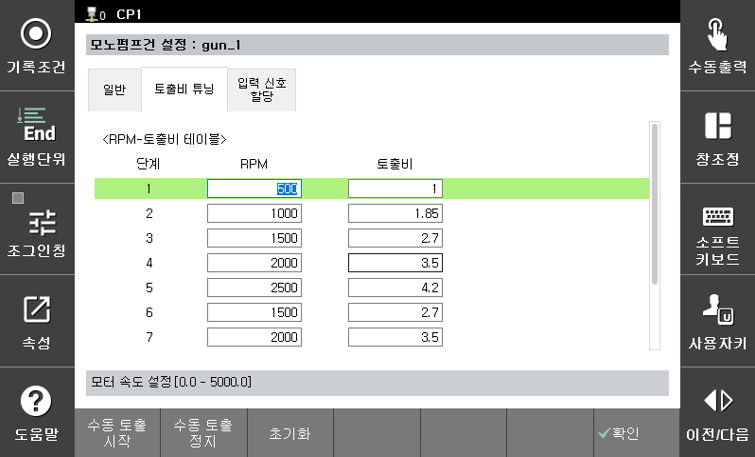
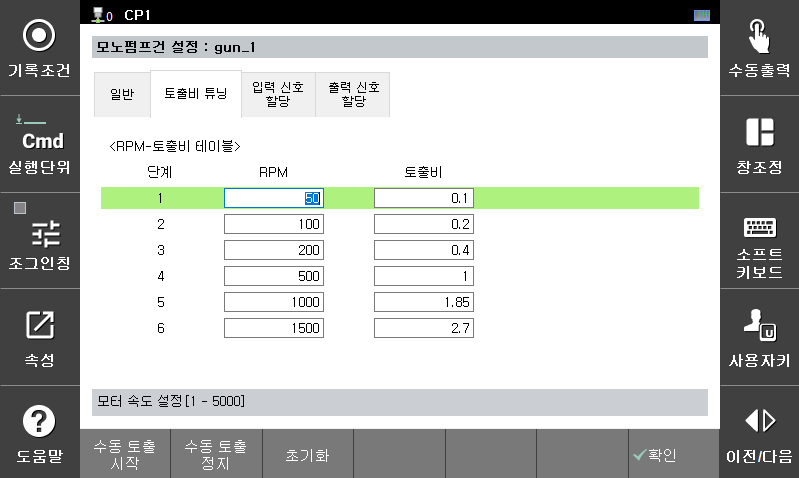
가감속 설정내용 추가

diff --git a/2-basic-setting/1-add-axis-parameter.md b/2-basic-setting/1-add-axis-parameter.md
@@ -5,4 +5,6 @@
 ![](../_assets/image1.png)
 
 
-감속기를 사용하지 않고 모터와 직결한다면 감속비를 360:1으로 설정합니다. 이는 모터 1회전에 실제 기구는 360deg 회전함을 의미합니다. 또한 토출이 진행되는 방향을 고려하여 감속비 부호를 설정합니다.
+감속기를 사용하지 않고 모터와 직결한다면 감속비를 360:1으로 설정합니다. 이는 모터 1회전에 실제 기구는 360deg 회전함을 의미합니다. 또한 토출이 진행되는 방향을 고려하여 감속비 부호를 설정합니다. <br>
+
+실러 건에 설정된 가속시간과 감속시간이 크면 토출 시작과 종료시 그리고 석백과 리필 동작시 반응이 늦기 때문에 가능한 범위에서 작게 설정해서 사용합니다.

diff --git a/2-basic-setting/3-monopump-setup/2-flow-rate-tunning.md b/2-basic-setting/3-monopump-setup/2-flow-rate-tunning.md
@@ -1,6 +1,7 @@
 # 2.3.2 토출비 튜닝
 
-모노펌프 건의 모터 회전속도(rpm)에 따른 토출비(cc/s)를 설정합니다. 최대 10단계의 구간으로 나누어 설정이 가능하도록 구성되어 있습니다.
+모노펌프 건의 모터 회전속도(rpm)에 따른 토출비(cc/s)를 설정합니다. 최대 6단계의 구간으로 나누어 설정이 가능하도록 구성되어 있습니다.<br>
+토출비는 지정 시간동안 지정 속도로 토출된 양을 저울에서 계측한 후 "계측값(g) * 비중 / 시간"의 계산값으로 설정합니다. 
 
 ![](../../_assets/image4.png)
 
